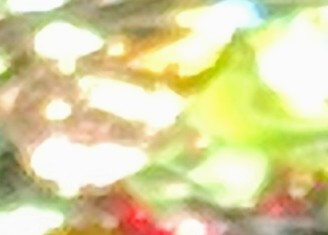
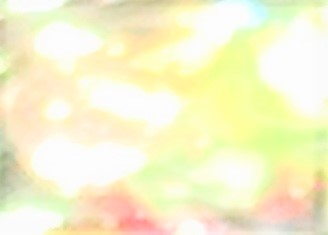
wip

diff --git a/docs/2018_haw_ml_praktikum.html b/docs/2018_haw_ml_praktikum.html
@@ -181,7 +181,6 @@
     <section data-markdown class="todo">
             <textarea data-template>
 * Neural Style Transfer umsetzen: https://github.com/fchollet/deep-learning-with-python-notebooks/blob/master/8.3-neural-style-transfer.ipynb
-* Object detection im Browser: https://twitter.com/samim/status/983675334942953473
 * Transfer Learning: https://storage.googleapis.com/tfjs-examples/webcam-transfer-learning/dist/index.html
 * RL: 
   * https://blog.openai.com/retro-contest/
@@ -248,6 +247,20 @@ Aufwändig, da lokale installation oder tensorflow.js nötig und eigene Bilder b
 <section data-markdown>
     <textarea data-template>
 ## Deep Learning / CNNs
+### Beispiel Stufe 3: Object Detection
+
+<small>
+https://www.datacamp.com/community/tutorials/object-detection-guide
+<br>
+https://towardsdatascience.com/deep-learning-in-your-browser-a-brisk-guide-ca06c2198846
+<br>
+https://github.com/ModelDepot/tfjs-yolo-tiny
+</small></textarea>
+</section>
+
+<section data-markdown>
+    <textarea data-template>
+## Deep Learning / CNNs
 ### Beispiel Stufe 1: Experimente wie funktionieren CNNs?
 
 <small>
@@ -273,12 +286,51 @@ https://distill.pub/2018/building-blocks/
     </small>
     </textarea>
     </section>
-        </div>
+
+<section>
+    <h2>Deep Reinforcement Learning</h2>
+</section>
+
+<section data-markdown>
+    <textarea data-template>
+### Beispiel Stufe 3: AlphaGo Zero
+
+<a href='https://applied-data.science/static/main/res/alpha_go_zero_cheat_sheet.png' target="_blank">
+<img src='img/rf/alpha_go_zero_cheat_sheet_small.png' height="300px">
+</a>
+
+aufwändig, lokale Installation notwendig, aber Code und Tutorial ist vorhanden
+
+<small>
+Tutorial: https://medium.com/applied-data-science/how-to-build-your-own-alphazero-ai-using-python-and-keras-7f664945c188
+<br>
+Code: https://github.com/AppliedDataSciencePartners/DeepReinforcementLearning
+</small>
+</textarea>
+</section>
+
+<section data-markdown>
+    <textarea data-template>
+### Beispiel Stufe 3: World Model
+
+<a href='https://applied-data.science/static/main/res/alpha_go_zero_cheat_sheet.png' target="_blank">
+    <img src='img/rf/world-models.gif' height="300px">
+</a>
+
+aufwändig, lokale Installation notwendig, aber Code und Tutorial ist vorhanden
+
+<small>
+Tutorial: https://medium.com/applied-data-science/how-to-build-your-own-world-model-using-python-and-keras-64fb388ba459
+<br>
+Code: https://github.com/AppliedDataSciencePartners/WorldModels
+</small>
+</textarea>
+</section>
 
 <section data-markdown>
     <textarea data-template>
 ## Unsupervised ML
-### Beispiel Stufe 3: Experimente mit Clustering Algorithmen
+### Beispiel Stufe 1: Experimente mit Clustering Algorithmen
 
 * mit den Parametern der bekannten Algos experimentieren.
 * Clustering. Anderer Algo, Birch. 
@@ -289,6 +341,21 @@ https://distill.pub/2018/building-blocks/
 </textarea>
 </section>
 
+<section>
+    <h2>Natural Language Processing</h2>
+</section>
+
+<section data-markdown>
+    <textarea data-template>
+### Beispiel Stufe 3: Classifying text with TensorFlow Estimators
+
+aufwändig, lokale Installation notwendig
+
+<small>
+https://medium.com/tensorflow/classifying-text-with-tensorflow-estimators-a99603033fbe
+</small>
+</textarea>
+</section>
 </div>
 
 <script src="reveal.js/lib/js/head.min.js"></script>

diff --git a/docs/2018_haw_ml_classic.html b/docs/2018_haw_ml_classic.html
@@ -402,7 +402,7 @@ We will explore Jupyter Notebooks and walk through the code together
             
                     <section>
                         <h2>
-                            <small>There are differen types of machine learning</small>
+                            <small>There are different types of machine learning</small>
                         </h2>
                         <div style="margin-top: -30px">
                             <img src="img/sketch/types-of-ml.png" height="500px">
@@ -410,9 +410,58 @@ We will explore Jupyter Notebooks and walk through the code together
                     </section>
 
                     <section>
-                            <img src='img/applications/decisions/type.png'>
-                        </section>
-            
+                        <h3>Most Exciting: Reinforcement Learning</h3>
+                    </section>
+
+<section data-markdown>
+    <textarea data-template>
+### AlphaGo Zero
+
+<a href='https://applied-data.science/static/main/res/alpha_go_zero_cheat_sheet.png' target="_blank">
+<img src='img/rf/alpha_go_zero_cheat_sheet_small.png' height="300px">
+</a>
+
+Beating all human players, using MCTS and Deep Convolutional Neural Networks
+
+<small>
+Tutorial: https://medium.com/applied-data-science/how-to-build-your-own-alphazero-ai-using-python-and-keras-7f664945c188
+<br>
+Code: https://github.com/AppliedDataSciencePartners/DeepReinforcementLearning
+</small>
+</textarea>
+</section>
+
+<section data-markdown>
+    <textarea data-template>
+### World Model
+
+<a href='https://applied-data.science/static/main/res/alpha_go_zero_cheat_sheet.png' target="_blank">
+    <img src='img/rf/world-models.gif' height="300px">
+</a>
+
+Learning to drive on a race track without any additional information
+
+<small>
+Tutorial: https://medium.com/applied-data-science/how-to-build-your-own-world-model-using-python-and-keras-64fb388ba459
+<br>
+Code: https://github.com/AppliedDataSciencePartners/WorldModels
+</small>
+</textarea>
+</section>
+
+
+
+            <section>
+                    <img src='img/applications/decisions/type.png'>
+                </section>
+
+    <section data-markdown>
+            <textarea data-template>
+### Unsupervised Machine Learning: Clustering
+<img src='img/sketch/clustering.jpg' height="500px">
+        </textarea>
+    </section>
+                            
             <section>
                 <h3>Supervised Machine Learning as an Experiment</h3>
                 <a href="https://teachablemachine.withgoogle.com/" target="_blank">
@@ -678,10 +727,14 @@ min_samples_split=20
                     <img src="img/flashcards/AdaBoost_print.png">
                 </section> -->
 
-
-                <section>
-                    <h3>Exercise</h3>
-                </section>
+    <section data-markdown>
+            <textarea data-template>
+### Exercise
+1. Extend the notebook to for the Random Forest Strategy
+2. Optional: Find out about AdaBoost Ensemble Learning and add it as well
+        </textarea>
+    </section>
+            
                 <section>
                     <h2>WICHTIG: Laptop oder Handy mitbringen nächstes Mal</h2>
                     <p>Wir haben ein paar Experimente</p>

diff --git a/docs/2018_non_tech_workshop.html b/docs/2018_non_tech_workshop.html
@@ -449,6 +449,22 @@ Wie würde man  das _automatisch_ clustern, ohne Labels zu haben?
             <h2>Wie findet ihr eigene Anwendungsmöglichkeiten?</h2>
         </section>
 
+        <section data-markdown>
+                <textarea data-template>
+### Artificial intelligence will wipe out half the banking jobs in a decade, experts say
+
+_Deutsche Bank, John Cryan_ 
+
+“In our bank we have people doing work like robots,” he said. “Tomorrow we will have robots behaving like people. It doesn’t
+matter if we as a bank will participate in these changes or not, it is going to happen.”
+
+
+<small>
+https://www.mercurynews.com/2018/04/20/artificial-intelligence-will-wipe-out-half-the-banking-jobs-in-a-decade-experts-say/
+</small>
+            </textarea>
+            </section>
+
         <section>
                 <h3>Eine Analogie</h3>
                 <p class="fragment">Die Machine Learning Technologie ist der Motor</p>

diff --git a/docs/2018_m3_intro.html b/docs/2018_m3_intro.html
@@ -623,7 +623,8 @@
         // $('section').attr('data-background-image', "backgrounds/light-metal.jpg");
         // $('section').attr('data-background-image', "backgrounds/pink.jpg");
         // $('section').attr('data-background-image', "backgrounds/white.jpg");
-        $('section').attr('data-background-image', "backgrounds/white-transparent.jpg")
+        // $('section').attr('data-background-image', "backgrounds/white-transparent.jpg")
+        $('section').attr('data-background-image', "backgrounds/murmel2.jpg")
 
     //    $('section').attr('data-background-image', "backgrounds/code.jpg");
     </script>

diff --git a/docs/2018_nlp.html b/docs/2018_nlp.html
@@ -577,6 +577,7 @@ Durchgehen und sofort Bilder klauen
   - http://colah.github.io/posts/2015-08-Understanding-LSTMs/
   - Illustration aus anderem Artikel: https://medium.com/mlreview/understanding-lstm-and-its-diagrams-37e2f46f1714
 - Nach RNN gleich Anwendungen in: http://karpathy.github.io/2015/05/21/rnn-effectiveness/
+- https://medium.com/@erikhallstrm/hello-world-rnn-83cd7105b767
 
 - Danach: Anwendungen für NLP wie bei Cholett
 
